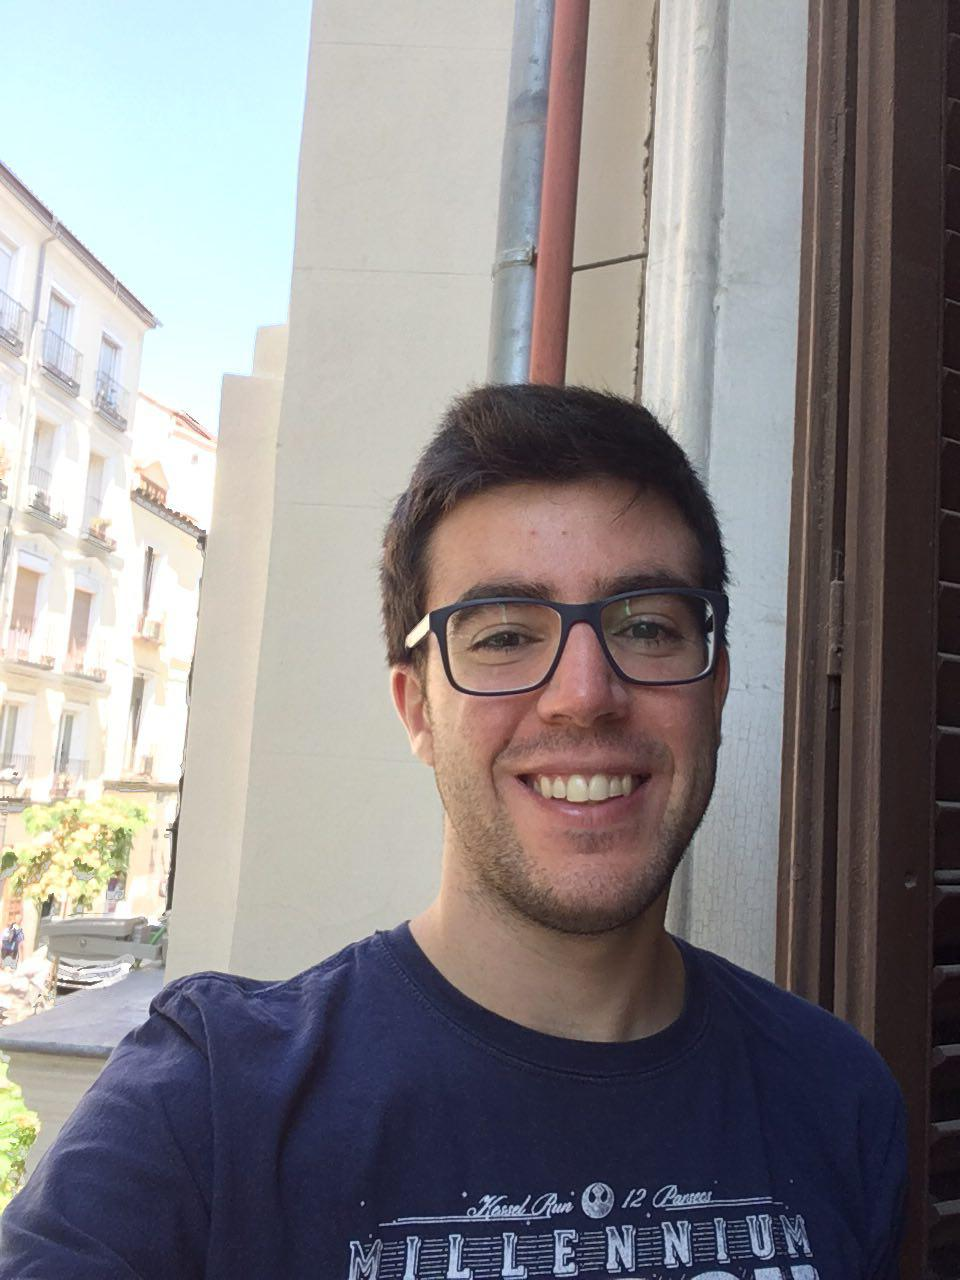
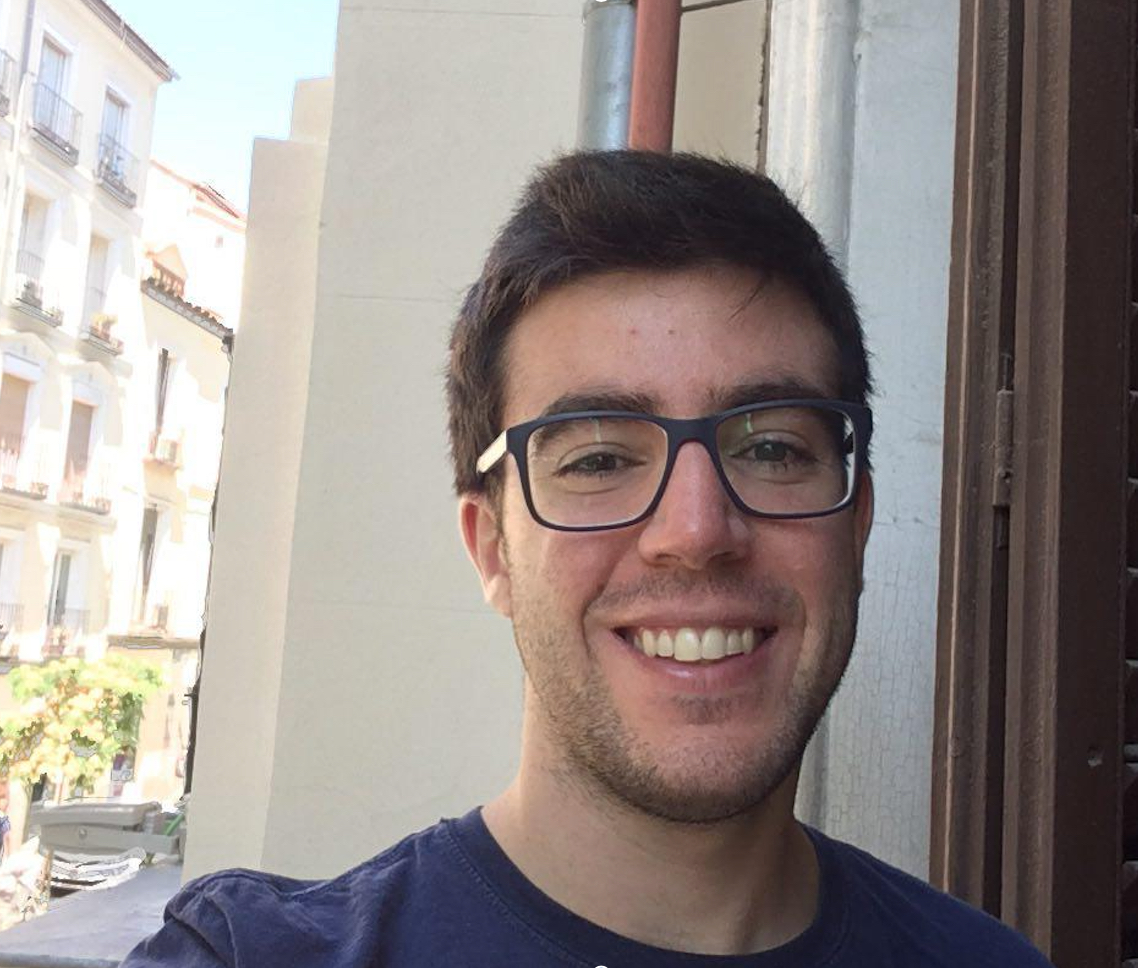
v1.1 commit

diff --git a/miscellanea.html b/miscellanea.html
@@ -36,10 +36,10 @@
                 <li>Grant from the <a href="https://www.uam.es/ss/Satellite/Ciencias/es/1242669601957/contenidoFinal/Departamento_de_Matematicas.htm">mathematics department</a>, UAM (2015-2016).</li>
                 <li>Beijing Institute of Technology summer school, Beijing, China (2012).</li>
             </ul>
-            <h2 id="miscellanea-elpais">Some divulgation articles (in Spanish)</h2>
+            <h2 id="miscellanea-elpais">Some outreach articles (in Spanish)</h2>
             <ul>
-                <li><em><a href="https://elpais.com/elpais/2019/07/05/ciencia/1562334845_358832.html">Ganar juegos usando la mecánica cuántica</a></em>, Divulgation article in <em>El País</em> (Spanish newspaper) -- 2019.</li>
-                <li><em><a href="https://elpais.com/elpais/2017/06/05/ciencia/1496654646_566993.html">Dándole vueltas al infinito</a></em>, Divulgation article in <em>El País</em> (Spanish newspaper) -- 2018.</li>
+                <li><em><a href="https://elpais.com/elpais/2019/07/05/ciencia/1562334845_358832.html">Ganar juegos usando la mecánica cuántica</a></em>, outreach article in <em>El País</em> (Spanish newspaper) -- 2019.</li>
+                <li><em><a href="https://elpais.com/elpais/2017/06/05/ciencia/1496654646_566993.html">Dándole vueltas al infinito</a></em>, outreach article in <em>El País</em> (Spanish newspaper) -- 2018.</li>
             </ul>
             <h2 id="miscellanea-stays">Research stays</h2>
             <ul>

diff --git a/talks.html b/talks.html
@@ -26,11 +26,11 @@
         <main role="main">
             <h2 id="talks-selected">Some selected talks</h2>
             <ul>
-                <li><em>Some quasi-isometric invariants for inverse semigroups</em>, Online semigroup seminar, University of York, April 2020 (<a href="./pdf/2018-cadiz-brasil-spain.pdf">slides</a>).</li>
+                <li><em>Some quasi-isometric invariants for inverse semigroups</em>, Online semigroup seminar, University of York, April 2020 (<a href="./pdf/2020-york.pdf">slides</a>).</li>
                 <li><em>Coarse geometry and inverse semigroups</em>, Colloquium in the math department of University of Montana, November 2019 (<a href="./pdf/2019-montana.pdf">slides</a>).</li>
                 <li><em>Amenability in inverse semigroups</em>, SandGAL-2019, Cremona, July 2019 (<a href="./pdf/2019-cremona-sandgal.pdf">slides</a>).</li>
                 <li><em>Amenability in inverse semigroups and C*-algebras</em>, II Joint Meeting Brazil-Spain in Mathematics, Cádiz, December 2018 (<a href="./pdf/2018-cadiz-brasil-spain.pdf">slides</a>).</li>
-                <li><em>Esquemas piramidales y porqué deberíamos pagar menos por las naranjas</em>, Divulgation talk (<a href="./pdf/2018-divulgation-BT.pdf">slides</a>).</li>
+                <li><em>Esquemas piramidales y porqué deberíamos pagar menos por las naranjas</em>, outreach talk (<a href="./pdf/2018-divulgation-BT.pdf">slides</a>).</li>
             </ul>
         </main>
     </body>

diff --git a/index.html b/index.html
@@ -42,12 +42,12 @@
                             </li>
                         </ul>
                         <p>
-                            Email: lumartin <em>at</em> math <em>dot</em> uc3m <em>dot</em> es
+                            Email: lumartin at math dot uc3m dot es
                         </p>
                     </td>
                     <td width="10%"></td>
                     <td width="25%">
-                        <img src="./images/me2.jpg" height="160" />
+                        <img src="./images/me.jpg" height="160" />
                     </td>
                 </tr></table>
 
